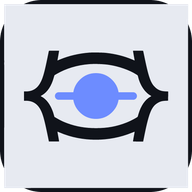
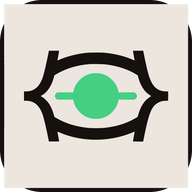
theme: jade on graphite - warm surfaces, jade iris accent (web + docs)
Second creative reskin away from the template indigo (petrol/sea lives in
the working-tree history and flowforge#18). Warm graphite dark (#121011
paper) + parchment light (#f6f1e7) stay from golden hour (flowforge#21);
the accent family moves gold -> jade (dark #45cf83 / light #197a4c AA),
sage-olive success and coral error deliberately kept distinct from jade
(the verdict-table ruling, noted in flowforge#19). Brand mark re-wears
jade: icon set + docs tile regenerated through make-icons.mjs (art path
re-pointed at web/public/brand after the packs move), og-image.mjs
constants + card regenerated. Docs fix retained from the petrol round:
light token block defines --accent-deep for Rouge number tokens.

Verified: npm run check green (18 docs gates + packstruct audit 8/8);
dark + light home frames captured via the repo's own look engine at
1280x800 and inspected pixel-level; icon svg byte-identical across both
sites (md5). Palette specs cross-filed on flowforge (#19/#21) and the
scheme-picker request on flowforge#20.

Changed region(s): [[0.2812, 0.375, 0.7188, 0.625], [0.4688, 0.3125, 0.5312, 0.3438], [0.7812, 0.4062, 0.8125, 0.4375]]

diff --git a/web/src/styles.css b/web/src/styles.css
@@ -1,45 +1,46 @@
-/* eyestruct shell theme - ink-black surfaces + iris periwinkle, dark-first,
-   with a full light theme as the second half of one token set. The two
-   anchors came off the brand sheet: dark surface #111216-ish, pale
-   surface #f2f3f6-ish, accent the iris periwinkle sampled at #6f88ed. Every color rides
-   a semantic token (paper/surface/raised/ink/ink-soft/accent/moss/err/
-   line/code-bg/nav-bg/accent-contrast): re-tune your brand by editing
-   THESE values only - the layout classes never branch on the theme and no
-   class ever hardcodes a hex. The token structure is shared across the
-   struct family (several deployed daus land here); keep the names. */
+/* eyestruct shell theme - the "jade on graphite" pair: warm graphite
+   surfaces in dark, parchment paper in light, with a jade-green iris as
+   the one identity accent across both (distinct from the sage success
+   green and the coral error, which keep their own hues). Every color
+   rides a semantic token (paper/surface/raised/ink/ink-soft/accent/
+   moss/err/line/code-bg/nav-bg/accent-contrast): re-tune your brand by
+   editing THESE values only - the layout classes never branch on the
+   theme and no class ever hardcodes a hex. The token structure is shared
+   across the struct family (several deployed daus land here); keep the
+   names. */
 
 :root {
-  --paper: #0d0e13;       /* brand sheet dark surface, cooled */
-  --surface: #13151c;
-  --raised: #1a1d28;
-  --ink: #e9ebf2;
-  --ink-soft: #97a0b4;
-  --accent: #7d8ff0;      /* iris periwinkle (sampled #6f88ed, lifted) */
-  --accent-deep: #5b6fd8;
-  --moss: #46bb82;        /* success / positive green, cooled to match */
-  --err: #e26d5e;         /* violation / negative red */
-  --line: #262b39;
-  --code-bg: #0a0b10;
-  --nav-bg: rgba(13, 14, 19, 0.88);
-  --accent-contrast: #0d0e13;
+  --paper: #121011;       /* warm graphite ink-black */
+  --surface: #181515;
+  --raised: #211b19;
+  --ink: #ece6df;         /* warm off-white */
+  --ink-soft: #a89c92;    /* warm stone-gray */
+  --accent: #45cf83;      /* jade-green iris */
+  --accent-deep: #2fae68;
+  --moss: #8fbe6f;        /* success, warm sage */
+  --err: #e2665b;         /* violation / negative coral */
+  --line: #2b2521;
+  --code-bg: #0d0b0a;
+  --nav-bg: rgba(18, 16, 17, 0.88);
+  --accent-contrast: #101711;
 }
 
-/* Light theme: the same identity, ink on the brand sheet's pale surface.
-   Tokens only - the whole layout reads them, so one block re-themes the
-   site and no layout class ever branches on the theme. */
+/* Light theme: the same identity, ink on warm parchment - golden hour
+   reversed. Tokens only - the whole layout reads them, so one block
+   re-themes the site and no layout class ever branches on the theme. */
 html[data-theme="light"] {
-  --paper: #f3f4f8;       /* brand sheet light surface */
+  --paper: #f6f1e7;       /* parchment paper */
   --surface: #ffffff;
-  --raised: #e7e9f2;
-  --ink: #12141a;
-  --ink-soft: #5a6276;
-  --accent: #4154cb;      /* iris periwinkle weighted for pale paper (AA) */
-  --accent-deep: #3343a6;
-  --moss: #27915e;
-  --err: #b34a3e;
-  --line: #dcdfe9;
-  --code-bg: #e9ebf4;
-  --nav-bg: rgba(243, 244, 248, 0.88);
+  --raised: #eae2d2;
+  --ink: #1c1712;         /* ink under the lamp */
+  --ink-soft: #6b6055;
+  --accent: #197a4c;      /* jade weighted for pale paper (AA) */
+  --accent-deep: #115c39;
+  --moss: #567a26;
+  --err: #b04a34;
+  --line: #e0d6c3;
+  --code-bg: #efe8d8;
+  --nav-bg: rgba(246, 241, 231, 0.88);
   --accent-contrast: #ffffff;
 }
 

diff --git a/docs/_layouts/default.html b/docs/_layouts/default.html
@@ -27,19 +27,21 @@
     <meta name="color-scheme" content="dark light">
     <style>
         :root {
-            --paper: #0d0e13; --surface: #0a0b0f; --raised: #1a1d28;
-            --ink: #e9ebf2; --ink-soft: #97a0b4; --ink-light: #97a0b4; /* tune BOTH toward AA on YOUR footer bg - crashtest ran 3.78:1 and it failed */
-            --accent: #7d8ff0; --moss: #46bb82; --err: #e26d5e;
-            --line: #262b39; --code-bg: #0a0b10;
+            /* jade on graphite: warm surfaces, jade-green iris accent
+               (one token block re-themes this whole site - keep names). */
+            --paper: #121011; --surface: #0d0b0a; --raised: #211b19;
+            --ink: #ece6df; --ink-soft: #a89c92; --ink-light: #a89c92; /* tune BOTH toward AA on YOUR footer bg - crashtest ran 3.78:1 and it failed */
+            --accent: #45cf83; --accent-deep: #2fae68; --moss: #8fbe6f; --err: #e2665b;
+            --line: #2b2521; --code-bg: #0d0b0a;
             --header-height: 54px; --sidebar-width: 240px;
         }
-        /* Light mode: the same identity, ink on pale paper
-           (matches the landing site's html[data-theme="light"] tokens). */
+        /* Light mode: the same identity, ink on warm parchment (matches the
+           landing site's html[data-theme="light"] tokens). */
         html[data-theme="light"] {
-            --paper: #f3f4f8; --surface: #ffffff; --raised: #e7e9f2;
-            --ink: #12141a; --ink-soft: #5a6276; --ink-light: #5a6276;
-            --accent: #4154cb; --moss: #27915e; --err: #b34a3e;
-            --line: #dcdfe9; --code-bg: #e9ebf4;
+            --paper: #f6f1e7; --surface: #ffffff; --raised: #eae2d2;
+            --ink: #1c1712; --ink-soft: #6b6055; --ink-light: #6b6055;
+            --accent: #197a4c; --accent-deep: #115c39; --moss: #567a26; --err: #b04a34;
+            --line: #e0d6c3; --code-bg: #efe8d8;
         }
         * { margin: 0; box-sizing: border-box; }
         html { background: var(--paper); color-scheme: dark; }

diff --git a/web/src/components/ThemeSwitch.jsx b/web/src/components/ThemeSwitch.jsx
@@ -18,7 +18,7 @@ function toggleTheme() {
   el.dataset.theme = next
   try { localStorage.setItem(THEME_KEY, next) } catch { /* private mode: live without persistence */ }
   const meta = document.querySelector('meta[name="theme-color"]')
-  if (meta) meta.setAttribute('content', next === 'light' ? '#f3f4f8' : '#0d0e13')
+  if (meta) meta.setAttribute('content', next === 'light' ? '#f6f1e7' : '#121011')
 }
 
 export default function ThemeSwitch() {
@@ -26,7 +26,7 @@ export default function ThemeSwitch() {
     // Keep the meta theme-color honest if the bootstrap already flipped to light.
     if (document.documentElement.dataset.theme === 'light') {
       const meta = document.querySelector('meta[name="theme-color"]')
-      if (meta) meta.setAttribute('content', '#f3f4f8')
+      if (meta) meta.setAttribute('content', '#f6f1e7')
     }
   }, [])
   return (

diff --git a/web/index.html b/web/index.html
@@ -36,7 +36,7 @@
   <link rel="icon" type="image/png" href="/favicon-32.png" sizes="32x32" />
   <link rel="apple-touch-icon" href="/apple-touch-icon.png" />
   <link rel="manifest" href="/site.webmanifest" />
-  <meta name="theme-color" content="#0d0e13" />
+  <meta name="theme-color" content="#121011" />
 
   <script>
     // Theme bootstrap: apply a persisted light theme before the stylesheet
@@ -46,7 +46,7 @@
     try {
       if (localStorage.getItem('eyestruct-theme') === 'light') {
         document.documentElement.dataset.theme = 'light'
-        document.currentScript.previousElementSibling.setAttribute('content', '#f3f4f8')
+        document.currentScript.previousElementSibling.setAttribute('content', '#f6f1e7')
       }
     } catch (e) {}
   </script>
